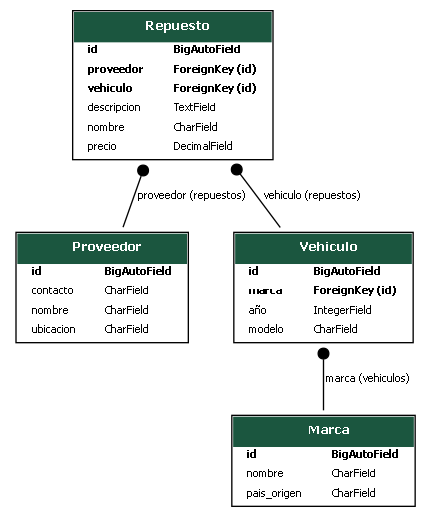
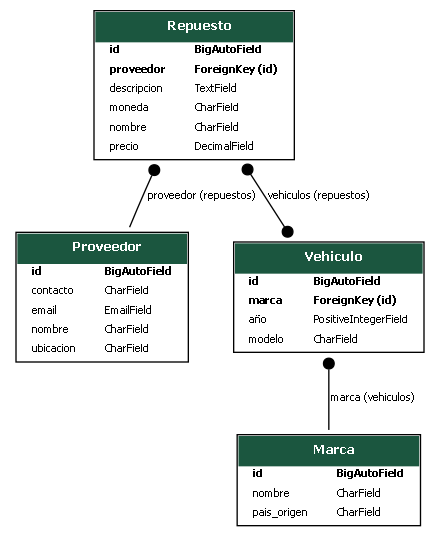
README ACTUALIZADO

Changed region(s): [[0.0302, 0.0, 0.9652, 0.9903]]

diff --git a/repuestos/models.py b/repuestos/models.py
@@ -3,6 +3,7 @@ from django.db import models
 class Proveedor(models.Model):
     nombre = models.CharField(max_length=100)
     contacto = models.CharField(max_length=100)
+    email = models.EmailField()
     ubicacion = models.CharField(max_length=255)
 
     def __str__(self):
@@ -17,7 +18,7 @@ class Marca(models.Model):
 
 class Vehiculo(models.Model):
     modelo = models.CharField(max_length=100)
-    año = models.IntegerField()
+    año = models.PositiveIntegerField()
     marca = models.ForeignKey(Marca, on_delete=models.CASCADE, related_name="vehiculos")
 
     def __str__(self):
@@ -27,8 +28,9 @@ class Repuesto(models.Model):
     nombre = models.CharField(max_length=100)
     descripcion = models.TextField()
     precio = models.DecimalField(max_digits=10, decimal_places=2)
+    moneda = models.CharField(max_length=3, choices=[("USD", "Dólares"), ("BOB", "Bolivianos")], default="BOB")
     proveedor = models.ForeignKey(Proveedor, on_delete=models.CASCADE, related_name="repuestos")
-    vehiculo = models.ForeignKey(Vehiculo, on_delete=models.CASCADE, related_name="repuestos")
+    vehiculos = models.ManyToManyField(Vehiculo, related_name="repuestos")
 
     def __str__(self):
         return self.nombre

diff --git a/repuestos/migrations/0002_remove_repuesto_vehiculo_proveedor_email_and_more.py b/repuestos/migrations/0002_remove_repuesto_vehiculo_proveedor_email_and_more.py
@@ -1,0 +1,38 @@
+# Generated by Django 5.2 on 2025-06-03 22:20
+
+from django.db import migrations, models
+
+
+class Migration(migrations.Migration):
+
+    dependencies = [
+        ('repuestos', '0001_initial'),
+    ]
+
+    operations = [
+        migrations.RemoveField(
+            model_name='repuesto',
+            name='vehiculo',
+        ),
+        migrations.AddField(
+            model_name='proveedor',
+            name='email',
+            field=models.EmailField(default='sin_email@example.com', max_length=254),
+            preserve_default=False,
+        ),
+        migrations.AddField(
+            model_name='repuesto',
+            name='moneda',
+            field=models.CharField(choices=[('USD', 'Dólares'), ('BOB', 'Bolivianos')], default='BOB', max_length=3),
+        ),
+        migrations.AddField(
+            model_name='repuesto',
+            name='vehiculos',
+            field=models.ManyToManyField(related_name='repuestos', to='repuestos.vehiculo'),
+        ),
+        migrations.AlterField(
+            model_name='vehiculo',
+            name='año',
+            field=models.PositiveIntegerField(),
+        ),
+    ]

diff --git a/README.MD b/README.MD
@@ -1,14 +1,16 @@
 # API de Repuestos para Vehículos
 
 ## Descripción
-Esta API permite gestionar proveedores, marcas, vehículos y repuestos. Facilita la administración de información sobre piezas automotrices y sus fabricantes, proporcionando endpoints para realizar operaciones CRUD.
+Esta API permite gestionar proveedores y repuestos de manera eficiente. Los proveedores pueden registrarse y establecer precios para repuestos predefinidos, evitando la necesidad de crear cada pieza manualmente. Los usuarios pueden consultar repuestos y encontrar proveedores con sus respectivos precios.
 
 ## Diagrama de Modelos
 Para generar el diagrama de modelos, usa el siguiente comando en Django Extensions:
 
 ```bash
-python manage.py graph_models repuestos -o modelos.png 
+python manage.py graph_models repuestos -o repuestos.png 
+
 ```
+
 ## Documentación de la API
 Esta API incluye una interfaz de documentación automática en localhost. Para acceder a la documentación interactiva, visita la siguiente URL una vez que el servidor esté en ejecución:
 - Documentación automática: http://localhost:8000/docs/
@@ -16,40 +18,14 @@ Esta API incluye una interfaz de documentación automática en localhost. Para a
 En esta página, podrás visualizar todos los endpoints disponibles, sus métodos y ejemplos de uso, facilitando la integración y pruebas.
 
 
-## Endpoints
+## Diagrama de Modelos
 
-## Proveedores
-- GET /api/proveedores/ → Lista todos los proveedores.
-- POST /api/proveedores/ → Crea un nuevo proveedor.
-- GET /api/proveedores/{id}/ → Obtiene un proveedor por ID.
-- PUT /api/proveedores/{id}/ → Actualiza un proveedor.
-- DELETE /api/proveedores/{id}/ → Elimina un proveedor.
-
-## Marcas
-- GET /api/marcas/ → Lista todas las marcas.
-- POST /api/marcas/ → Crea una nueva marca.
-- GET /api/marcas/{id}/ → Obtiene una marca por ID.
-- PUT /api/marcas/{id}/ → Actualiza una marca.
-- DELETE /api/marcas/{id}/ → Elimina una marca.
-
-## Vehículos
-- GET /api/vehiculos/ → Lista todos los vehículos.
-- POST /api/vehiculos/ → Crea un nuevo vehículo.
-- GET /api/vehiculos/{id}/ → Obtiene un vehículo por ID.
-- PUT /api/vehiculos/{id}/ → Actualiza un vehículo.
-- DELETE /api/vehiculos/{id}/ → Elimina un vehículo.
-
-## Repuestos
-- GET /api/repuestos/ → Lista todos los repuestos.
-- POST /api/repuestos/ → Crea un nuevo repuesto.
-- GET /api/repuestos/{id}/ → Obtiene un repuesto por ID.
-- PUT /api/repuestos/{id}/ → Actualiza un repuesto.
-- DELETE /api/repuestos/{id}/ → Elimina un repuesto.
+![Diagrama](repuestos.png)
 
 
 ## Caso de Uso
 
-1. Crear un proveedor:
+1. Registro de un proveedor:
 
 ```bash
 curl -X POST "http://localhost:8000/api/proveedores/" \
@@ -57,43 +33,51 @@ curl -X POST "http://localhost:8000/api/proveedores/" \
 -d '{
     "nombre": "Repuestos ABC",
     "contacto": "Juan Pérez",
+    "email": "juan@example.com",
     "ubicacion": "Bolivia"
 }'
 ```
 
-2. Crear una marca:
+2. Asignar precio a un repuesto existente:
 
 ```bash
-curl -X POST "http://localhost:8000/api/marcas/" \
+curl -X PATCH "http://localhost:8000/api/repuestos/1/" \
 -H "Content-Type: application/json" \
 -d '{
-    "nombre": "Toyota",
-    "pais_origen": "Japón"
-}'
-```
-
-3. Crear un Vehiculo:
-
-```bash
-curl -X POST "http://localhost:8000/api/vehiculos/" \
--H "Content-Type: application/json" \
--d '{
-    "modelo": "Corolla",
-    "año": 2000,
-    "marca": 1
-}'
-```
-
-4. Agregar un repuesto al vehiculo:
-
-```bash
-curl -X POST "http://localhost:8000/api/repuestos/" \
--H "Content-Type: application/json" \
--d '{
-    "nombre": "Filtro de aire",
-    "descripcion": "Filtro para motor",
     "precio": 40,
-    "proveedor": 1,
-    "vehiculo": 1
+    "moneda": "BOB",
+    "proveedor": 1
 }'
 ```
+
+3. Consultar repuestos y precios:
+
+```bash
+curl -X GET "http://localhost:8000/api/repuestos/" \
+-H "Content-Type: application/json"
+```
+## Para clientes:
+Los clientes pueden buscar repuestos y encontrar proveedores con sus respectivos precios.
+
+## 1. Consultar repuestos disponibles
+
+```bash
+curl -X GET "http://localhost:8000/api/repuestos/" \
+
+```
+
+- Esto devolverá una lista de repuestos con detalles y precios ofrecidos por distintos proveedores.
+
+## 2.  Buscar repuestos por nombre
+
+```bash
+curl -X GET "http://localhost:8000/api/repuestos/?nombre=filtro de aire" \
+
+```
+
+- Esto ayudará a los clientes a encontrar piezas específicas y comparar precios fácilmente.
+
+## Beneficios
+-  Simplificación: Los proveedores solo ingresan sus precios en repuestos ya existentes.
+-  Estandarización: Todos los repuestos están definidos en la base de datos.
+-  Optimización: Menos carga para los proveedores, más facilidad para los clientes.
